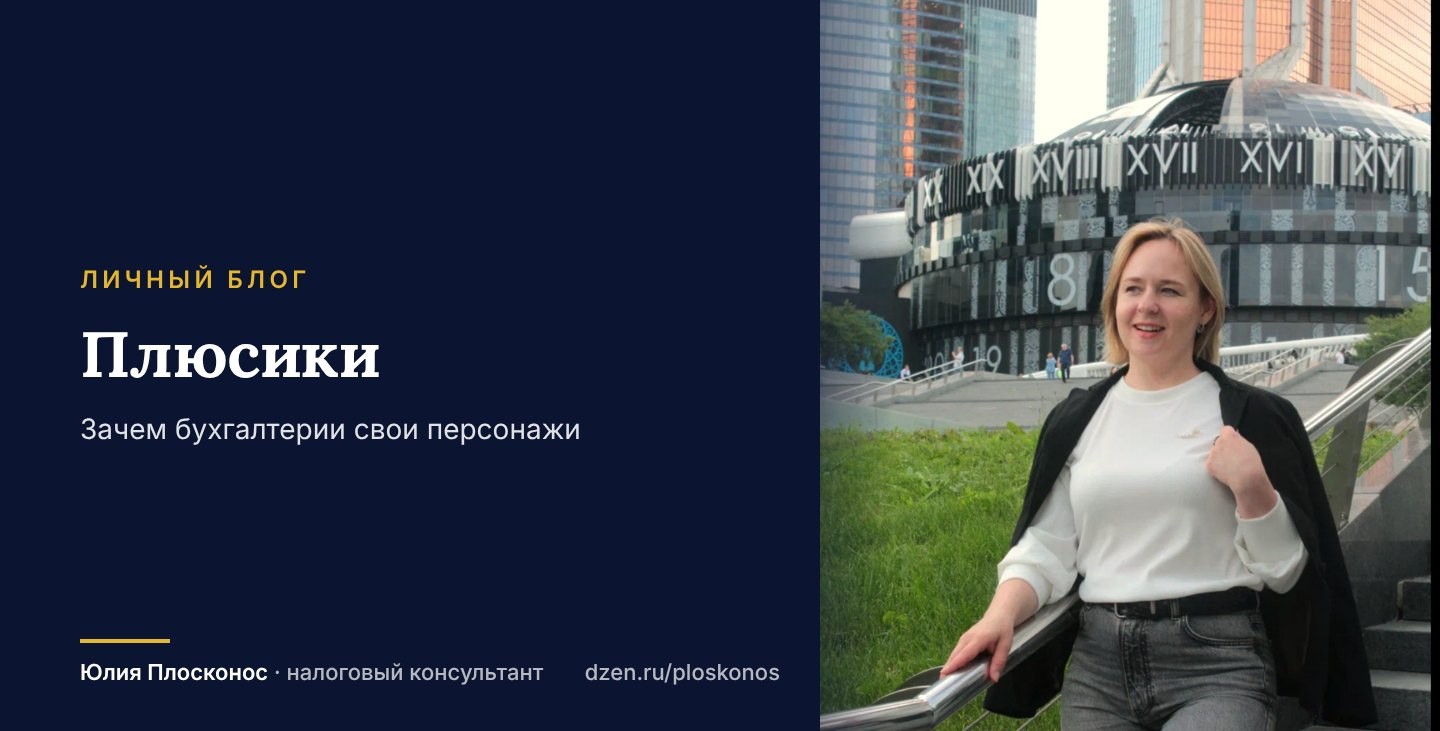
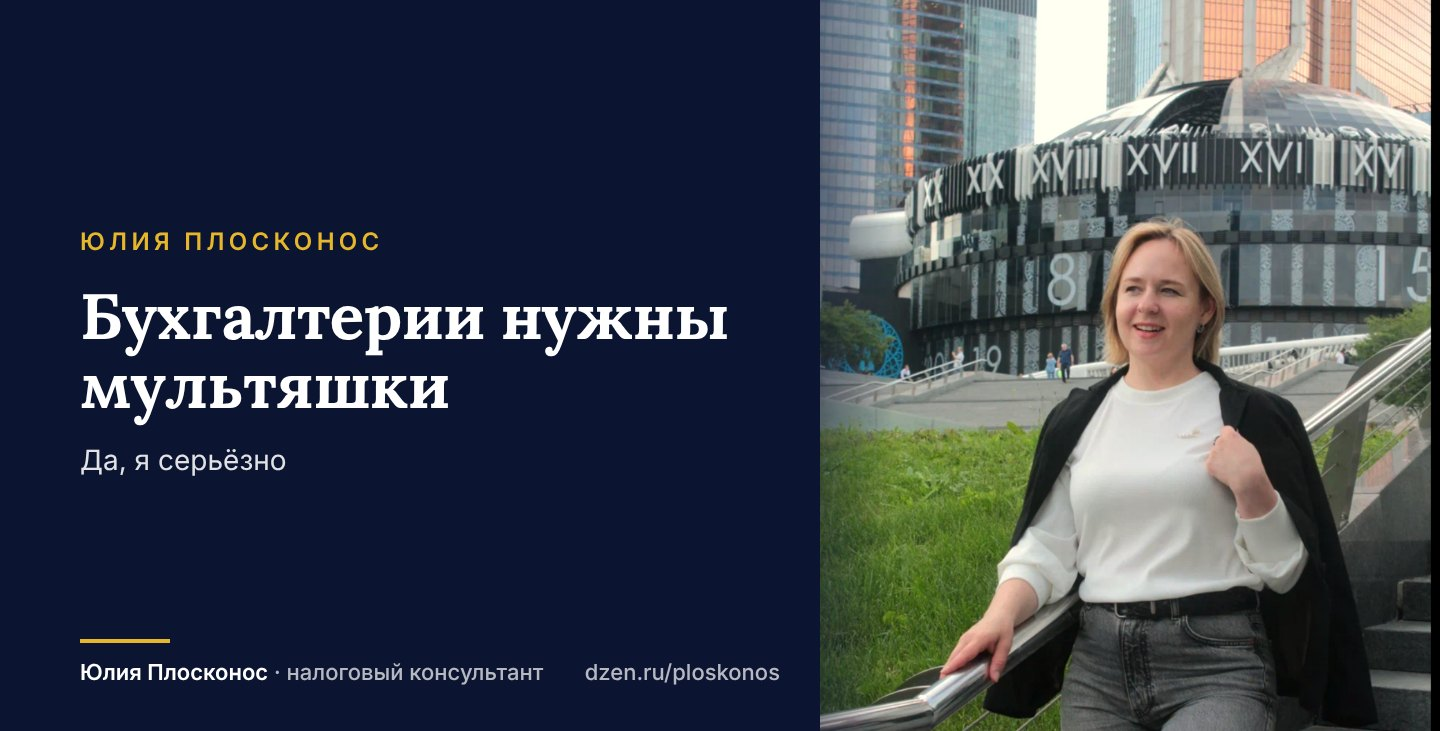
Dzen: цепляющие заголовки, топ-5 посты 22–26, новые обложки
Claude-Session: https://claude.ai/code/session_013Qm2mbBWBWRNQADMDb9gwE

Changed region(s): [[0.0312, 0.301, 0.5, 0.6621]]

diff --git a/content/dzen/2026-11-lichnoe.md b/content/dzen/2026-11-lichnoe.md
@@ -53,7 +53,9 @@
 
 ---
 
-## 4. Электронная революция в бухгалтерии: что заберут машины, а что останется нам
+## 4. ИИ заберёт у бухгалтера половину работы. И это хорошая новость
+
+Налоговая уже видит больше, чем ваш бухгалтер. Это не страшилка — это факт.
 
 ЭТрН, электронные требования, маркетплейсы, которые сами сдают данные в налоговую. АУСН, где банк фактически считает налог. ФНС видит больше, чем многие бухгалтеры.
 
@@ -77,7 +79,7 @@
 
 ---
 
-## 5. Как я работаю с двумя ИИ одновременно. Один пишет — другой проверяет
+## 5. Я заставила один ИИ проверять другой. Они ловят друг друга на ошибках
 
 У меня в проекте два ИИ-помощника. Один предлагает, второй проверяет. И я — главный аудитор над ними обоими.
 
@@ -92,7 +94,7 @@
 
 ---
 
-## 6. Плюсики. Зачем бухгалтерии свои персонажи
+## 6. Бухгалтерии нужны мультяшки. Да, я серьёзно
 
 У ВПЛЮСЕ появились персонажи. Шесть Плюсиков, у каждого свой ИИ-питомец, и ещё корпоративный — Шустик.
 
@@ -106,13 +108,13 @@
 
 ---
 
-## 7. Хотела закончить за месяц. Поставила себе полгода
+## 7. Я провалила свой дедлайн. И горжусь этим
 
 Первого ноября я была уверена: в ноябре доделаю робота полностью. Все блоки, весь функционал.
 
 Третьего ноября я переписала план. Теперь горизонт — полгода, до апреля 2027. Протестировать на годовом закрытии и отчётности за первый квартал.
 
-Это не поражение. Это честность. Я посмотрела на список и поняла: можно сделать быстро, а можно сделать так, чтобы работало на ста базах, а не на одной тестовой.
+Это не поражение. Это честность. Я посмотрела на список и поняла: можно сделать быстро, а можно сделать так, чтобы работало на десятках баз, а не на одной тестовой.
 
 В бухгалтерии я никогда не обещаю клиенту сроки, которые не могу выполнить. Почему себе можно?
 
@@ -120,7 +122,9 @@
 
 ---
 
-## 8. Арамболь. Весна, Индия и поток, в котором всё время что-то происходит
+## 8. Я бухгалтер. В Индии я перестала всё контролировать — и выжила
+
+Для человека, у которого жизнь расписана по срокам НДС, Индия — это шок. Там ничего нельзя спланировать.
 
 Этой весной я была в Индии, в Арамболе. Кто был — поймёт. Кто не был — объясню, как смогу.
 
@@ -148,9 +152,9 @@
 
 ---
 
-## 10. Почему я люблю боевики со счастливым концом. Да, это про бухгалтерию тоже
+## 10. Стэйтем научил меня закрывать квартал. Почти
 
-Признаюсь: я обожаю триллеры и боевики. Стэйтем, Лиам Нисон, Том Круз, Марк Уолберг. «Сверхъестественное» пересматриваю. Генри Кавилл, Марвел. И да, мне нравится смотреть на красивых мужчин — не буду делать вид, что я смотрю ради сюжета про спасение мира.
+Признаюсь: я обожаю триллеры и боевики. Стэйтем, Лиам Нисон, Том Круз, Марк Уолберг. «Сверхъестественное» пересматриваю. Генри Кавилл, Марвел.
 
 Но главное — финал. Я не люблю, когда в конце всех убили и «вот такая жизнь». Мне нужно, чтобы вся эта… сложная ситуация в итоге решилась. Герой выкрутился, плохие наказаны, всё встало на места.
 
@@ -162,7 +166,7 @@
 
 ---
 
-## 11. Бизнес-книги научили меня считать. Русская классика — понимать людей
+## 11. Бизнес-книги бесполезны, если вы не читали Достоевского
 
 Я прочитала, кажется, все топовые бизнес-бестселлеры. Про привычки, про стратегию, про переговоры, про то, как построить компанию мечты. Полезно? Да. Многое из этого я применяю каждый день.
 
@@ -178,7 +182,7 @@
 
 ---
 
-## 12. «Пиковая дама». Почему опера задевает сильнее любого сериала
+## 12. Германн проиграл всё из-за одной идеи. Я вижу таких клиентов каждый месяц
 
 Недавно была в Михайловском театре на «Пиковой даме». Я вообще люблю оперу, но эта для меня — лучшая. И красиво, и задело за душу.
 
@@ -192,7 +196,7 @@
 
 ---
 
-## 13. Каким я вижу будущее бухгалтерии. Честно: не знаю. Но знаю, за кого болею
+## 13. Налоговая — это уже компьютер. Вопрос: на чьей стороне ваш?
 
 Меня спросили: каким будет ВПЛЮСЕ и робот через три-пять лет? Я честно ответила: даже не представляю.
 
@@ -210,9 +214,11 @@
 
 ---
 
-## 14. Армения за три дня. Весна, Арарат и перезагрузка
+## 14. Три дня в Армении перезагрузили меня лучше, чем двухнедельный отпуск
 
-В апреле я укатила в Армению. Всего на три дня — и это были одни из самых классных трёх дней за год. Честно: сама бы ещё год собиралась, хорошо, что рядом был человек, который сказал «едем».
+Три дня. Не две недели, не месяц — три дня. И голова очистилась так, как не очищалась после длинного отпуска.
+
+В апреле мы с дочкой и сестрой укатили в Армению. Инициатор — сестра: я бы ещё год собиралась.
 
 Весна, всё цветёт. После московской зимы и отчётного сезона — как будто кто-то включил цвет.
 
@@ -226,11 +232,13 @@
 
 ---
 
-## 15. Питер осенью: закрытие фонтанов в Петергофе и дворец, в который мы попали случайно
+## 15. Билетов не было. И это лучшее, что случилось за всю поездку
+
+План А провалился — и спас мне поездку. Сейчас расскажу.
 
 Я давно хотела попасть в Петергоф на закрытие фонтанов. Каждый год откладывала: то отчёты, то клиенты, то «в следующем году точно». В этом году — поехали. Осенний парк, пруд, ротонда — красота, ради которой стоило ждать.
 
-А потом решили съездить в Екатерининский дворец. Погода была отличная, и не только мы такие умные: билеты раскупили быстро. Стоим, думаем, что делать. И пошли в Александровский дворец.
+А потом решили показать детям Екатерининский дворец. Погода была отличная, и не только мы такие умные: билеты раскупили быстро. Стоим, думаем, что делать. И пошли в Александровский дворец.
 
 Это была лучшая ошибка поездки. Интерьеры там — просто пушка. Гостиные, залы с люстрами, библиотека с книжными шкафами до потолка, бильярдная. Ходишь и понимаешь, что тут жили, а не позировали.
 
@@ -241,7 +249,9 @@
 
 ---
 
-## 16. Пришло требование из налоговой. Что сделать в первые сутки
+## 16. Из-за одной забытой квитанции налоговая может заблокировать вам счёт
+
+Не из-за долгов. Не из-за ошибок в декларации. Из-за квитанции, которую забыли отправить. Так бизнес встаёт чаще, чем вы думаете.
 
 Требование пугает всех, даже опытных бухгалтеров. Но в первые сутки нужно сделать всего три вещи, и паника в этот список не входит.
 
@@ -257,9 +267,9 @@
 
 ---
 
-## 17. Пять признаков, что в вашей 1С пора наводить порядок
+## 17. Топ-5 признаков, что в вашей 1С бардак. Проверьте за десять минут
 
-Я открываю много чужих баз 1С. И почти всегда по первым минутам видно, всё ли в порядке. Вот на что я смотрю.
+Мне хватает десяти минут в чужой 1С, чтобы понять, есть ли там проблемы. Вот пять мест, куда я смотрю первым делом. Проверьте свою базу сами.
 
 1. Сальдо по 60 и 62 не сходится с актами сверки. Если контрагент считает, что вы должны ему одну сумму, а 1С показывает другую, — это уже вопрос.
 
@@ -277,7 +287,7 @@
 
 ---
 
-## 18. Я снова иду учиться. Президентская программа, топ-менеджмент
+## 18. Я руковожу бизнесом, но управлению меня никто не учил. Исправляю
 
 Я руководитель. Небольшой команды, своего бизнеса, своего проекта — но руководитель. И в какой-то момент поняла: я отлично знаю бухгалтерию и налоги, но управлению меня никто специально не учил. Всё на опыте, на шишках, на интуиции.
 
@@ -291,7 +301,7 @@
 
 ---
 
-## 19. Экспресс-проверка учёта: что это и кому она нужна
+## 19. «Вроде всё нормально, но тревожно». Если это про вас — читайте
 
 Ко мне часто приходят с фразой «у нас вроде всё нормально, но как-то тревожно». Для этого и есть экспресс-проверка.
 
@@ -308,7 +318,7 @@
 
 ---
 
-## 20. ПлюсРобот: что он уже умеет
+## 20. Мой робот находит то, что бухгалтер пропускает в два часа ночи
 
 Я давно пишу про робота, пора показать, что он делает уже сейчас.
 
@@ -322,7 +332,7 @@
 
 ---
 
-## 21. Электронная транспортная накладная: нужна ли она вам
+## 21. ЭТрН: нужна ли она вам? Спойлер: «всем срочно» — неправда
 
 Про ЭТрН сейчас спрашивают постоянно. Коротко: это электронный документ о перевозке, который подписывают участники через операторов ЭДО и который уходит в государственную систему.
 
@@ -333,5 +343,97 @@
 Подробно я разобрала тему в статье на сайте vpluse.pro — там есть, на что смотреть в первую очередь.
 
 Если сомневаетесь, нужна ли вам ЭТрН, — спросите меня, разберём на вашем примере.
+
+---
+
+## 22. Топ-5 отчётов в 1С, которые я открываю перед сдачей НДС. Без них — лотерея
+
+Сдавать НДС без проверки — это как переходить дорогу с закрытыми глазами. Иногда везёт. Иногда — требование. Вот мои пять отчётов в 1С:Бухгалтерии.
+
+1. Экспресс-проверка ведения учёта. Отчёты → Анализ учёта. 1С сама пробегает базу и показывает типовые ошибки. Пять минут — и уже видно, где горит.
+
+2. Анализ учёта по НДС. Там же. Показывает, откуда взялась каждая сумма в декларации: начислено, восстановлено, к вычету. Если цифра непонятна — здесь видно почему.
+
+3. ОСВ по счёту 19. Всё, что висит на 19, — это НДС, который вы не приняли к вычету. Иногда там лежат деньги, про которые все забыли.
+
+4. ОСВ по 68.02 против декларации. Сальдо должно биться с итогом к уплате. Не бьётся — ищите сейчас, а не после камералки.
+
+5. Сверка с контрагентами. Расхождение с поставщиком по счёту-фактуре — главный повод для требования о пояснениях.
+
+Сохраните, чтобы не искать в конце квартала. А какой отчёт открываете первым вы?
+
+---
+
+## 23. Топ-5 причин, почему у вас не закрывается месяц в 1С
+
+«Закрытие месяца выдаёт ошибку, но мы просто жмём дальше». Слышу это постоянно. А потом себестоимость странная, прибыль непонятная, налог на прибыль — сюрприз.
+
+1. Непроведённые или помеченные документы. Решение: групповое перепроведение за период.
+
+2. Отрицательные остатки на складе. Продали то, чего ещё нет в учёте. Себестоимость в таком месяце — фантазия.
+
+3. Не заполнена учётная политика или методы распределения затрат. 1С просто не знает, куда закрывать 20, 25, 26, 44.
+
+4. Документы задним числом. Кто-то провёл поступление в прошлом месяце, а закрытие уже сделано. Помогает дата запрета изменения данных.
+
+5. Ошибки, которые «всегда были». Помощник закрытия месяца пишет, что не так, — его надо читать, а не закрывать окно.
+
+Закрытие месяца — это не кнопка. Это ежемесячный техосмотр вашего учёта.
+
+---
+
+## 24. Топ-5 признаков, что налоговая скоро заинтересуется вашим бизнесом
+
+ФНС не выбирает компании для выездной проверки наугад. Критерии риска давно опубликованы. Вот пять самых частых.
+
+1. Налоговая нагрузка ниже средней по отрасли.
+
+2. Убытки два года и больше подряд.
+
+3. Доля вычетов по НДС 89% и выше от начисленного налога.
+
+4. Зарплата ниже средней по отрасли в регионе.
+
+5. Показатели годами на грани лимитов спецрежима — выручка, численность.
+
+Один пункт — не приговор. Но если совпало два-три, лучше заранее понимать, как вы будете объяснять цифры. Это я и называю «смотреть сложностям в лицо».
+
+Сколько пунктов совпало у вас? Можно не писать в комментариях — просто посчитайте.
+
+---
+
+## 25. Топ-5 вопросов, которые надо задать бухгалтеру до 31 декабря
+
+Декабрь — это не только ёлка и корпоратив. Это последний шанс что-то исправить, пока год не закрыт. Спросите бухгалтера:
+
+1. Мы провели инвентаризацию? Без неё годовая отчётность — на честном слове.
+
+2. Сверились с основными контрагентами? Акты сверки сейчас — меньше вопросов от налоговой потом.
+
+3. Какое сальдо на ЕНС? Переплата или долг — лучше узнать до праздников.
+
+4. Учётная политика на следующий год готова? Если меняются режим, виды деятельности, методы учёта — её нужно утвердить заранее.
+
+5. Остаёмся на текущем налоговом режиме? Некоторые переходы возможны только с начала года, и решение надо принимать сейчас.
+
+Если на какой-то вопрос бухгалтер отвечает «потом» — это и есть ответ.
+
+---
+
+## 26. Топ-5 кнопок 1С, о которых не знает половина бухгалтеров
+
+Я постоянно вижу, как бухгалтер ищет ошибку вручную, хотя 1С уже показывает ответ. Вот пять кнопок, которые экономят часы.
+
+1. Дт/Кт в документе. Показывает проводки. Сразу видно, что документ сделал в учёте.
+
+2. Структура подчинённости. Вся цепочка: заказ, счёт, реализация, оплата, счёт-фактура. Видно, чего не хватает.
+
+3. Отчёт по движениям документа. Не только проводки, но и регистры — НДС, затраты, взаиморасчёты.
+
+4. Групповое изменение реквизитов. Поменять договор или статью затрат у ста документов за минуту, а не за день.
+
+5. Дата запрета изменения данных. Закрыли период — заперли. Больше никаких «я тут немного поправила в прошлом квартале».
+
+Сохраните себе и перешлите своему бухгалтеру. А какая кнопка спасает вас?
 
 ---
